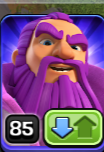
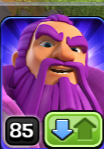
fix(assets): correct golem, super troops, sky wagon, totem & spell cards with widened aspect ratio

diff --git a/src/app/gui_app.py b/src/app/gui_app.py
@@ -113,7 +113,7 @@ UNIT_ASSET_MAP = {
     "Super Archer": "assets/army/cards/troops/super_archer_card.png",
     "Super Giant": "assets/army/cards/troops/super_giant_card.png",
     "Sneaky Goblin": "assets/army/cards/troops/sneaky_goblin_card.png",
-    "Super Wall Breaker": "assets/army/cards/troops/wall_breaker_card.png",
+    "Super Wall Breaker": "assets/army/cards/troops/super_wall_breaker_card.png",
     "Rocket Balloon": "assets/army/cards/troops/rocket_balloon_card.png",
     "Super Wizard": "assets/army/cards/troops/super_wizard_card.png",
     "Super Dragon": "assets/army/cards/troops/super_dragon_card.png",
@@ -124,14 +124,10 @@ UNIT_ASSET_MAP = {
     "Ice Hound": "assets/army/cards/troops/ice_hound_card.png",
     "Super Bowler": "assets/army/cards/troops/bowler_card.png",
     "Super Miner": "assets/army/cards/troops/super_miner_card.png",
-    "Super Hog Rider": "assets/army/cards/troops/hog_rider_card.png",
+    "Super Hog Rider": "assets/army/cards/troops/super_hog_rider_card.png",
     "Super Yeti": "assets/army/cards/troops/super_yeti_card.png",
 
-    # 4. Squad Barracks
-    "Barbarian Squad": "assets/army/cards/troops/super_barbarian_card.png",
-    "Archer Squad": "assets/army/cards/troops/super_archer_card.png",
-
-    # 5. Siege Machines (Crisp, clean, verified)
+    # 4. Siege Machines (Crisp, clean, verified)
     "Siege Barracks": "assets/siege/siege_barracks.png",
     "Battle Blimp": "assets/siege/battle_blimp.png",
     "Log Launcher": "assets/siege/log_launcher.png",
@@ -139,9 +135,10 @@ UNIT_ASSET_MAP = {
     "Wall Wrecker": "assets/siege/wall_wrecker.png",
     "Stone Slammer": "assets/siege/stone_slammer.png",
     "Battle Drill": "assets/siege/battle_drill.png",
-    "Siege Balloon": "assets/siege/siege_balloon.png",
+    "Troop Launcher": "assets/siege/troop_launcher.png",
+    "Sky Wagon": "assets/siege/sky_wagon.png",
 
-    # 6. Heroes (TH17 Complete 6 Hero Roster)
+    # 5. Heroes (TH17 Complete 6 Hero Roster)
     "Barbarian King": "assets/heroes/barbarian_king.png",
     "Archer Queen": "assets/heroes/archer_queen.png",
     "Grand Warden": "assets/heroes/grand_warden.png",
@@ -149,26 +146,33 @@ UNIT_ASSET_MAP = {
     "Minion Prince": "assets/heroes/minion_prince.png",
     "Dragon Duke": "assets/heroes/dragon_duke.png",
 
-    # 7. Spells (Crisp, clean, verified)
-    "Earthquake": "assets/spells/earthquake.png",
+    # 6. Spells (Crisp, clean, verified)
+    "Totem Spell": "assets/spells/totem.png",
+    "Totem": "assets/spells/totem.png",
     "Lightning": "assets/spells/lightning.png",
     "Rage": "assets/spells/rage.png",
     "Freeze": "assets/spells/freeze.png",
     "Jump": "assets/spells/jump.png",
-    "Poison": "assets/spells/poison.png",
-    "Haste": "assets/spells/haste.png",
     "Healing": "assets/spells/healing.png",
-    "Skeleton": "assets/spells/skeleton.png",
+    "Heal Spell": "assets/spells/healing.png",
     "Invisibility": "assets/spells/invisibility.png",
-    "Bat": "assets/spells/bat.png",
-    "Bat Spell": "assets/spells/bat.png",
+    "Invisibility Spell": "assets/spells/invisibility.png",
+    "Revive Spell": "assets/spells/revive.png",
+    "Revive": "assets/spells/revive.png",
     "Clone": "assets/spells/clone.png",
     "Clone Spell": "assets/spells/clone.png",
-    "Overgrowth": "assets/spells/overgrowth.png",
     "Recall": "assets/spells/recall.png",
     "Recall Spell": "assets/spells/recall.png",
-    "Revive Spell": "assets/spells/healing.png",
-    "Heroic Spell": "assets/spells/rage.png",
+    "Poison": "assets/spells/poison.png",
+    "Haste": "assets/spells/haste.png",
+    "Bat": "assets/spells/bat.png",
+    "Bat Spell": "assets/spells/bat.png",
+    "Ice Block": "assets/spells/ice_block.png",
+    "Ice Block Spell": "assets/spells/ice_block.png",
+    "Earthquake": "assets/spells/earthquake.png",
+    "Earthquake Spell": "assets/spells/earthquake.png",
+    "Skeleton": "assets/spells/skeleton.png",
+    "Overgrowth": "assets/spells/overgrowth.png",
 }
 
 TROOP_OPTIONS = [
@@ -187,21 +191,18 @@ TROOP_OPTIONS = [
     "Super Barbarian", "Super Archer", "Super Giant", "Sneaky Goblin", "Super Wall Breaker",
     "Rocket Balloon", "Super Wizard", "Super Dragon", "Inferno Dragon", "Super Minion",
     "Super Valkyrie", "Super Witch", "Ice Hound", "Super Bowler", "Super Miner",
-    "Super Hog Rider", "Super Yeti",
-
-    # Squads
-    "Barbarian Squad", "Archer Squad"
+    "Super Hog Rider", "Super Yeti"
 ]
 
 SIEGE_OPTIONS = [
     "Siege Barracks", "Battle Blimp", "Log Launcher", "Flame Flinger",
-    "Wall Wrecker", "Stone Slammer", "Battle Drill", "Siege Balloon"
+    "Wall Wrecker", "Stone Slammer", "Battle Drill", "Troop Launcher", "Sky Wagon"
 ]
 
 SPELL_OPTIONS = [
-    "Earthquake", "Lightning", "Rage", "Freeze", "Jump",
-    "Poison", "Haste", "Healing", "Skeleton", "Invisibility",
-    "Bat", "Clone", "Overgrowth", "Recall", "Heroic Spell"
+    "Totem Spell", "Lightning", "Healing", "Rage", "Freeze", "Jump",
+    "Invisibility", "Revive Spell", "Clone", "Recall", "Poison", "Haste",
+    "Bat", "Ice Block", "Earthquake", "Skeleton", "Overgrowth"
 ]
 
 PRIORITY_OPTIONS = [
@@ -1334,11 +1335,13 @@ class DashboardApp(ctk.CTk):
         if cfg_spells:
             for s_idx, cfg_sp in enumerate(cfg_spells):
                 sp_en = getattr(cfg_sp, "enabled", True)
-                sp_name_raw = getattr(cfg_sp, "name", "earthquake").replace("_", " ").title()
+                sp_name_raw = getattr(cfg_sp, "name", "totem_spell").replace("_", " ").title()
+                if sp_name_raw.lower() in ("totem", "totem spell"):
+                    sp_name_raw = "Totem Spell"
                 sp_qty = int(getattr(cfg_sp, "expected_quantity", 11))
                 self._add_spell_slot(spell_name=sp_name_raw, qty=sp_qty, enabled=sp_en)
         else:
-            self._add_spell_slot(spell_name="Earthquake", qty=11, enabled=True)
+            self._add_spell_slot(spell_name="Totem Spell", qty=11, enabled=True)
 
         # -------------------------------------------------------------
         # 5. SAVE & APPLY BUTTON
@@ -1563,7 +1566,7 @@ class DashboardApp(ctk.CTk):
         )
         chk_sp.grid(row=0, column=0, padx=(6, 2), pady=3, sticky="w")
 
-        lbl_ico = ctk.CTkLabel(row_frame, text="", width=36, height=48)
+        lbl_ico = ctk.CTkLabel(row_frame, text="", width=46, height=48)
         lbl_ico.grid(row=0, column=1, padx=3, pady=3)
 
         row_data = {
@@ -1688,7 +1691,7 @@ class DashboardApp(ctk.CTk):
     def _update_spell_row_icon(self, row_data: dict) -> None:
         spell_name = row_data["unit_var"].get()
         rel_path = UNIT_ASSET_MAP.get(spell_name)
-        img = self._load_ctk_image(rel_path, size=(36, 48)) if rel_path else None
+        img = self._load_ctk_image(rel_path, size=(46, 48)) if rel_path else None
         row_data["lbl_ico"].configure(image=img)
 
     def _update_spell_icon_preview(self, idx: int = 0) -> None:
